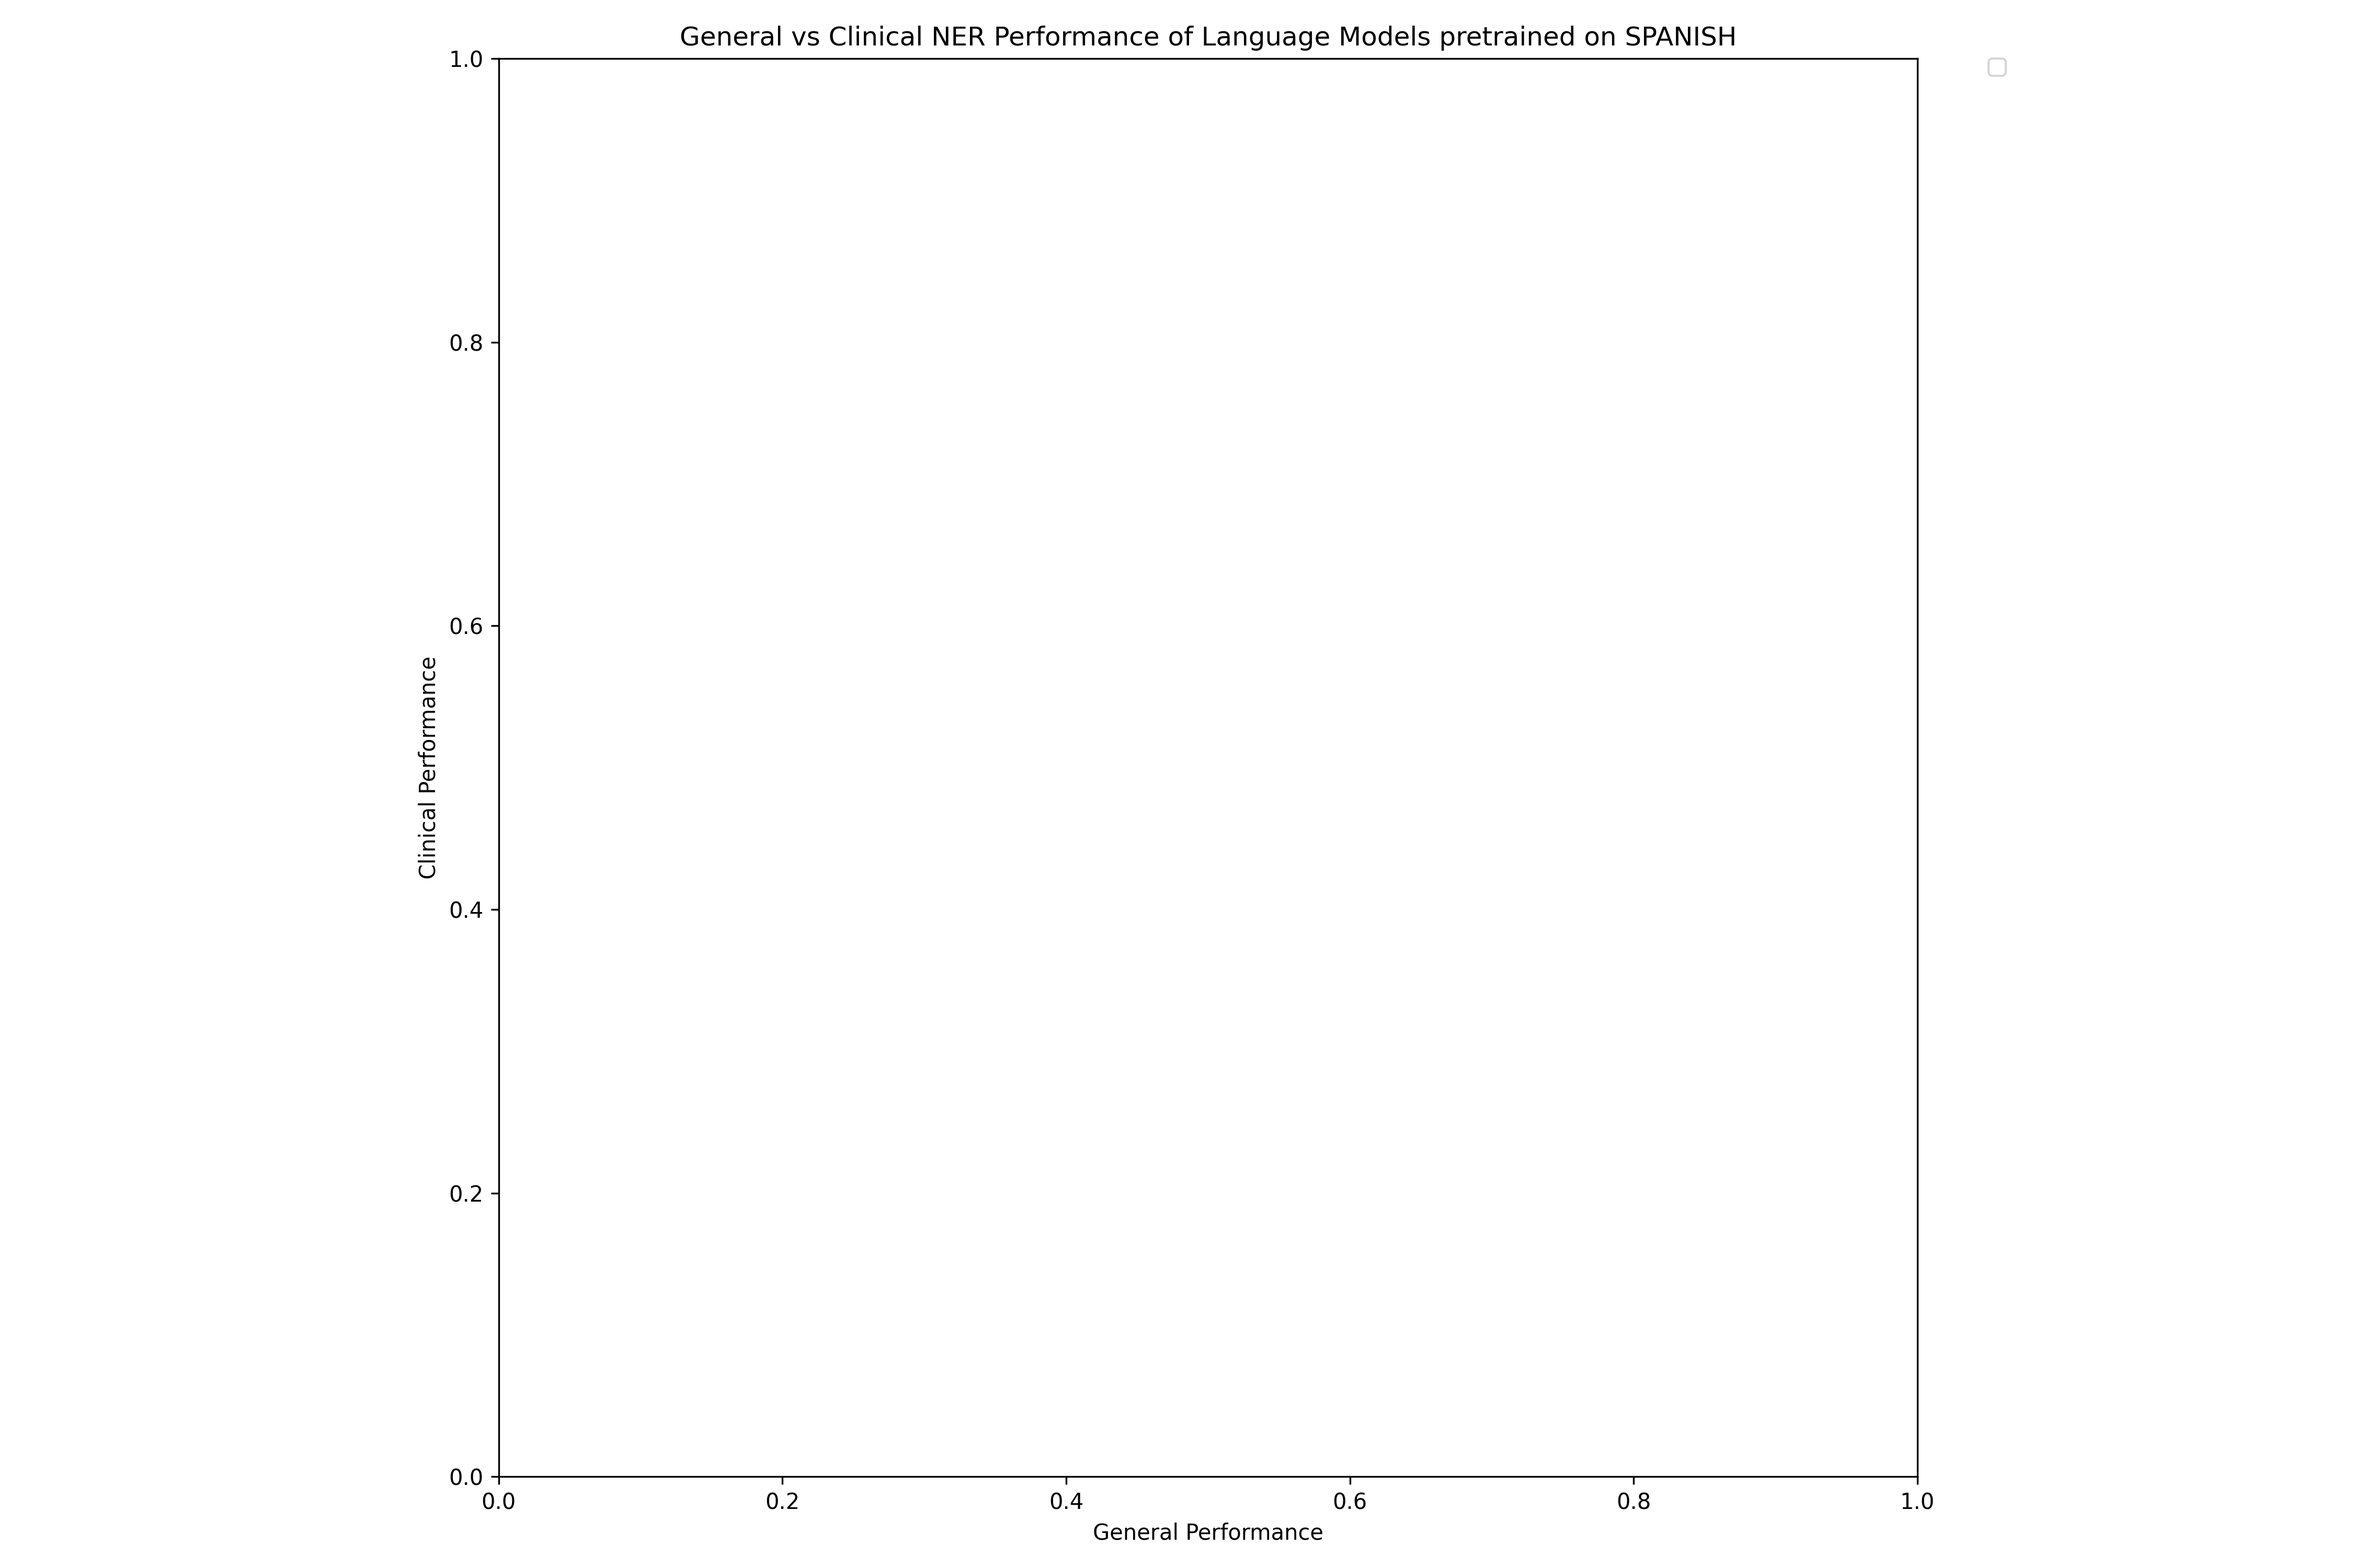
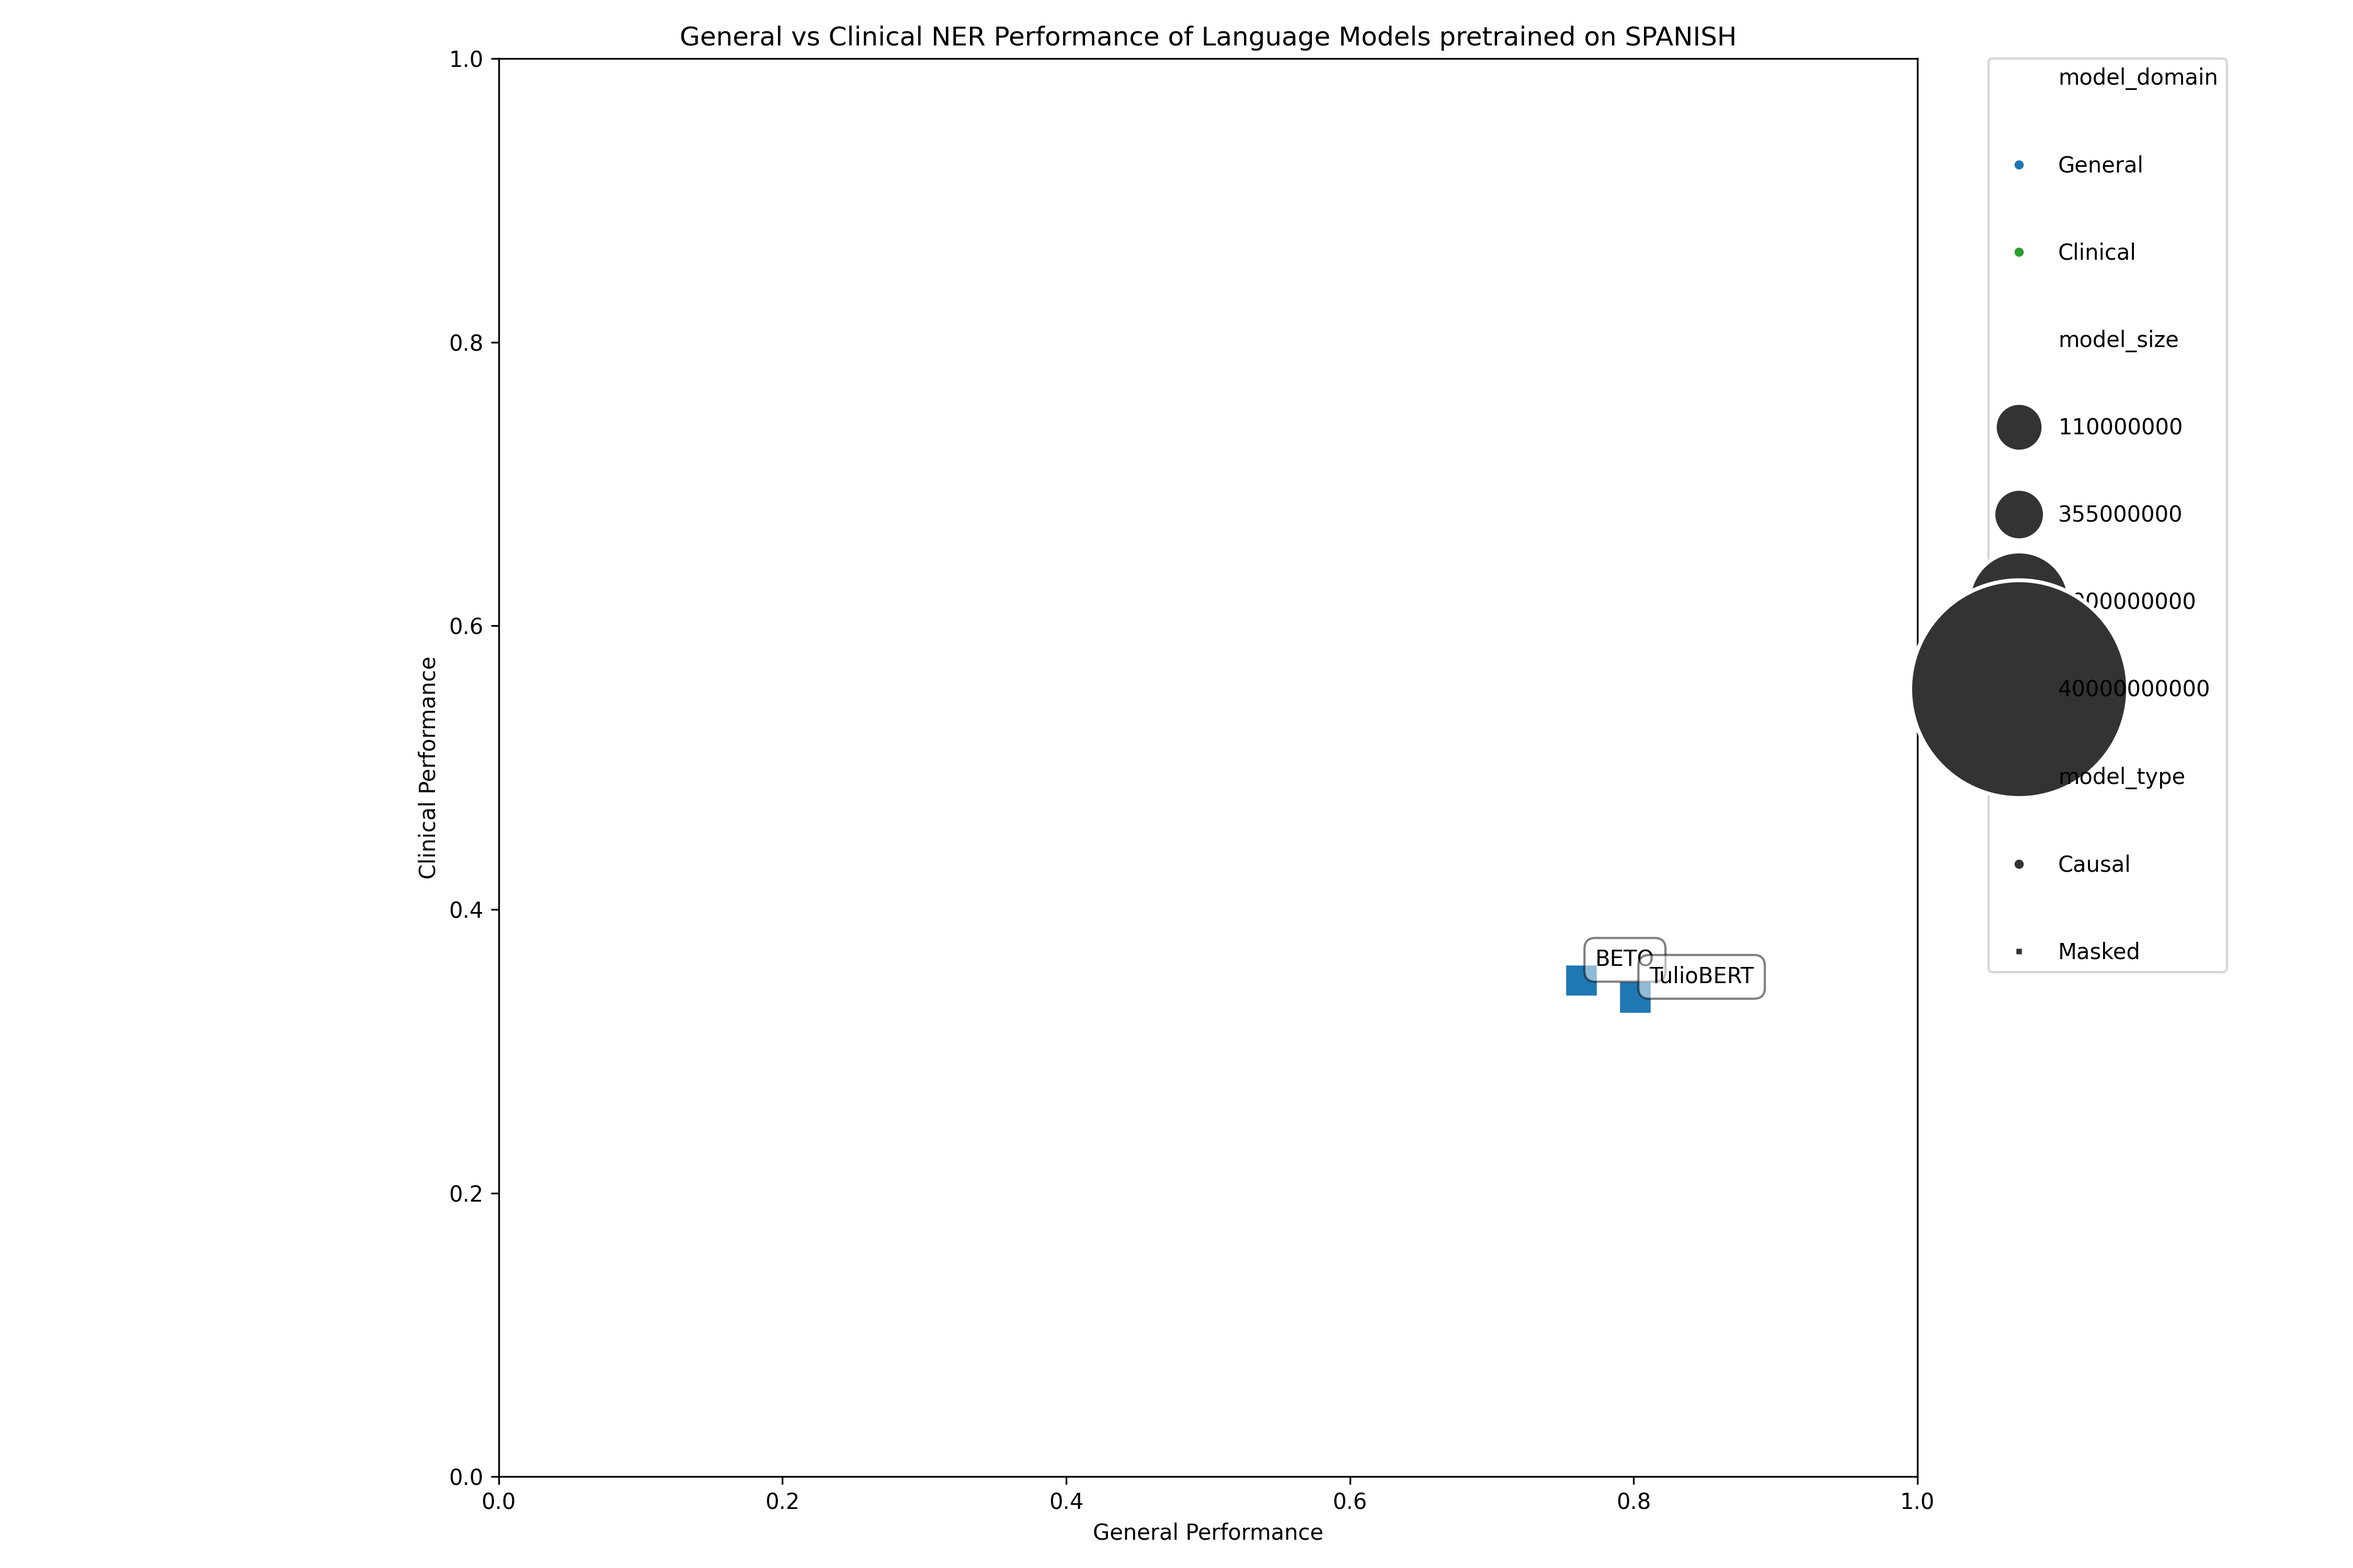
better results

diff --git a/result_tabs_and_plots/results_table.tex b/result_tabs_and_plots/results_table.tex
@@ -6,22 +6,22 @@ Type & Model & WikiNER-en & CoNLL2003 & E3C-en & n2c2 & WikiNER-fr & E3C-fr & EM
 \midrule
 \multirow{6}{*}{Causal} & Mistral-7B & 0.754 & 0.645 & - & 0.291 & 0.727 & - & 0.229 & 0.333 & 0.72 & - & - & - \\
  & Falcon-40B & 0.686 & 0.708 & - & 0.279 & 0.662 & - & - & 0.283 & 0.72 & - & - & - \\
- & Vicuna-13B & - & 0.708 & - & - & - & - & - & 0.326 & - & - & - & - \\
+ & Vicuna-13B & - & 0.708 & - & 0.236 & - & - & - & 0.326 & - & - & - & - \\
  & Vicuna-7B & 0.594 & 0.388 & - & 0.147 & 0.591 & - & 0.152 & 0.296 & 0.659 & - & - & - \\
  & Medalpaca-7B & - & 0.558 & - & 0.191 & - & - & 0.161 & 0.224 & - & - & - & - \\
  & Vigogne-13B & - & 0.655 & - & 0.176 & 0.515 & - & 0.099 & 0.142 & - & - & - & - \\
 \midrule
-\multirow{12}{*}{Masked} & XLM-RoBERTa-large & 0.786 & 0.826 & - & 0.462 & 0.811 & - & 0.629 & 0.531 & 0.797 & 0.781 & - & - \\
- & BERT-large & 0.776 & 0.835 & - & 0.435 & - & - & - & - & - & - & - & - \\
- & RoBERTa-large & 0.79 & 0.862 & - & 0.462 & - & - & - & - & - & - & - & - \\
- & ClinicalBERT & 0.462 & 0.597 & - & 0.48 & - & - & - & - & - & - & - & - \\
- & MedBERT & 0.613 & 0.673 & - & 0.478 & - & - & - & - & - & - & - & - \\
- & CamemBERT-large & - & - & - & - & 0.829 & - & 0.661 & 0.577 & - & - & - & - \\
+\multirow{12}{*}{Masked} & XLM-RoBERTa-large & 0.786 & 0.826 & - & 0.465 & 0.811 & - & 0.629 & 0.531 & 0.797 & 0.781 & - & - \\
+ & BERT-large & 0.776 & 0.835 & 0.613 & 0.435 & - & - & - & - & - & - & - & - \\
+ & RoBERTa-large & 0.79 & 0.862 & 0.616 & 0.466 & - & - & - & - & - & - & - & - \\
+ & ClinicalBERT & 0.462 & 0.597 & - & 0.484 & - & - & - & - & - & - & - & - \\
+ & MedBERT & 0.613 & 0.673 & - & 0.485 & - & - & - & - & - & - & - & - \\
+ & CamemBERT-large & - & - & - & - & 0.829 & 0.767 & 0.661 & 0.577 & - & - & - & - \\
  & DrBERT-4GB & - & - & - & - & 0.587 & - & 0.602 & 0.486 & - & - & - & - \\
  & CamemBERT-bio & - & - & - & - & 0.782 & - & 0.636 & 0.549 & - & - & - & - \\
- & BETO & - & - & - & - & - & - & - & - & 0.794 & 0.732 & - & - \\
+ & BETO & - & - & - & - & - & - & - & - & 0.794 & 0.732 & 0.35 & - \\
  & PatanaBERT & - & - & - & - & - & - & - & - & 0.802 & 0.769 & - & - \\
- & TulioBERT & - & - & - & - & - & - & - & - & 0.804 & 0.798 & - & - \\
+ & TulioBERT & - & - & - & - & - & - & - & - & 0.804 & 0.798 & 0.338 & - \\
  & BETO-Galen & - & - & - & - & - & - & - & - & 0.149 & 0.254 & - & - \\
 \bottomrule
 \end{tabular}}

diff --git a/read_jsons.py b/read_jsons.py
@@ -13,7 +13,7 @@ dataset_hierarchy = {
             "conll2003": "CoNLL2003",
         },
         "Clinical": {
-            "e3c-en": "E3C-en",
+            "e3c_en": "E3C-en",
             "n2c2": "n2c2",
         },
     },
@@ -22,7 +22,7 @@ dataset_hierarchy = {
             "WikiNER-fr": "WikiNER-fr",
         },
         "Clinical": {
-            "e3c-fr": "E3C-fr",
+            "e3c_fr": "E3C-fr",
             "emea": "EMEA",
             "medline": "MEDLINE",
         },
@@ -33,7 +33,7 @@ dataset_hierarchy = {
             "conll2002-es": "CoNLL2002",
         },
         "Clinical": {
-            "e3c-es": "E3C-es",
+            "e3c_es": "E3C-es",
             "CWL": "CWL",
         },
     },
